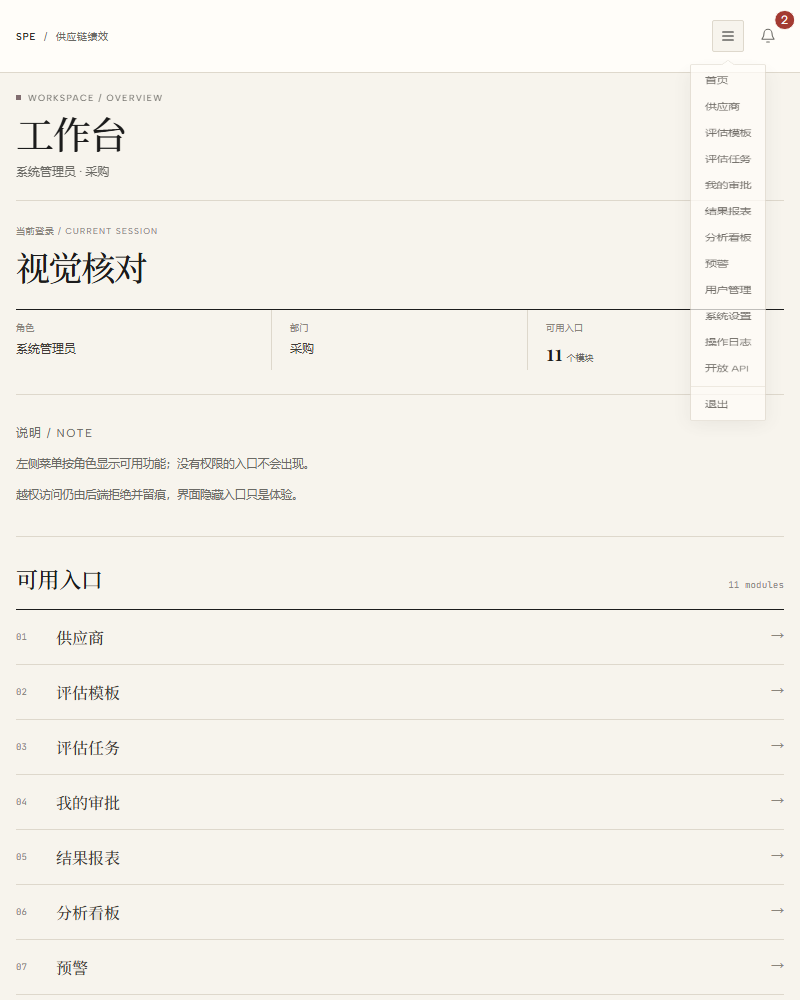
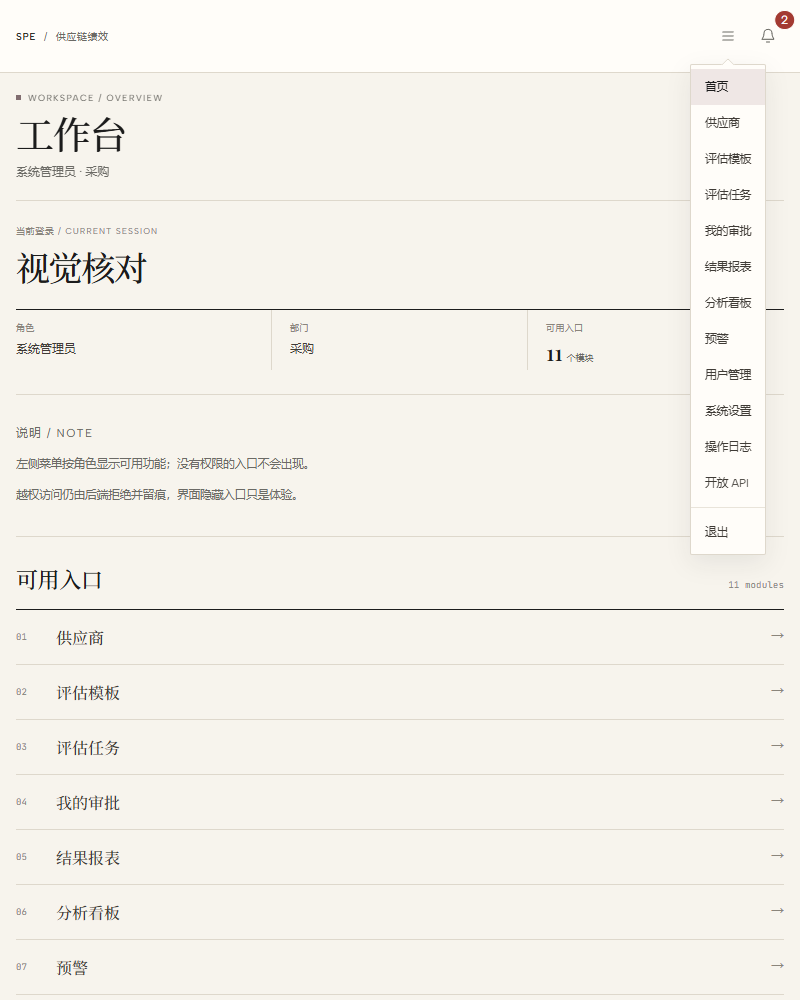
fix(frontend): 修正登录页标语并高亮移动端当前菜单

Changed region(s): [[0.875, 0.062, 0.9375, 0.496], [0.9062, 0.031, 0.9375, 0.062], [0.875, 0.527, 0.9062, 0.558]]

diff --git a/frontend/e2e/visual.spec.ts b/frontend/e2e/visual.spec.ts
@@ -49,6 +49,7 @@ test('登录页', async ({ page }) => {
   const problems = watchConsole(page)
   await page.goto('/login', { waitUntil: 'networkidle' })
   await settle(page)
+  await expect(page.locator('.login__brand-note')).toContainText('Internal access only')
   await expect(page).toHaveScreenshot('login.png')
   expect(problems.all).toEqual([])
 })
@@ -127,6 +128,7 @@ test('移动端菜单', async ({ page }) => {
   await openPage(page, '/')
   await page.getByRole('button', { name: '菜单' }).click()
   await page.locator('.el-dropdown-menu').waitFor({ state: 'visible' })
+  await expect(page.locator('.el-dropdown-menu__item.is-active')).toContainText('首页')
   await page.mouse.move(20, 500)
   await page.evaluate(() => {
     const active = document.activeElement as HTMLElement | null

diff --git a/frontend/src/app/layouts/DefaultLayout.vue b/frontend/src/app/layouts/DefaultLayout.vue
@@ -164,6 +164,8 @@ function navigateFromMobile(command: string): void {
                   v-for="menu in menus"
                   :key="menu.path"
                   :command="menu.path"
+                  :class="{ 'is-active': menu.path === activeMenu }"
+                  :aria-current="menu.path === activeMenu ? 'page' : undefined"
                 >
                   {{ menu.title }}
                 </el-dropdown-item>

diff --git a/frontend/src/app/styles/base.css b/frontend/src/app/styles/base.css
@@ -537,9 +537,11 @@ html .el-dropdown-menu__item {
   font-size: 11.5px;
   padding: 7px 14px;
 }
-html .el-dropdown-menu__item:hover {
+html .el-dropdown-menu__item:hover,
+html .el-dropdown-menu__item.is-active {
   background: var(--accent-soft);
   color: var(--ink);
+  font-weight: 500;
 }
 html .el-select-dropdown__item {
   color: var(--ink-secondary);

diff --git a/frontend/src/features/auth/views/LoginView.vue b/frontend/src/features/auth/views/LoginView.vue
@@ -60,7 +60,7 @@ async function submit(): Promise<void> {
         </p>
         <p class="login__brand-note">
           SPE · Editorial Ledger<br>
-          2026 Q3 / Internal access
+          Internal access only
         </p>
       </section>
 
